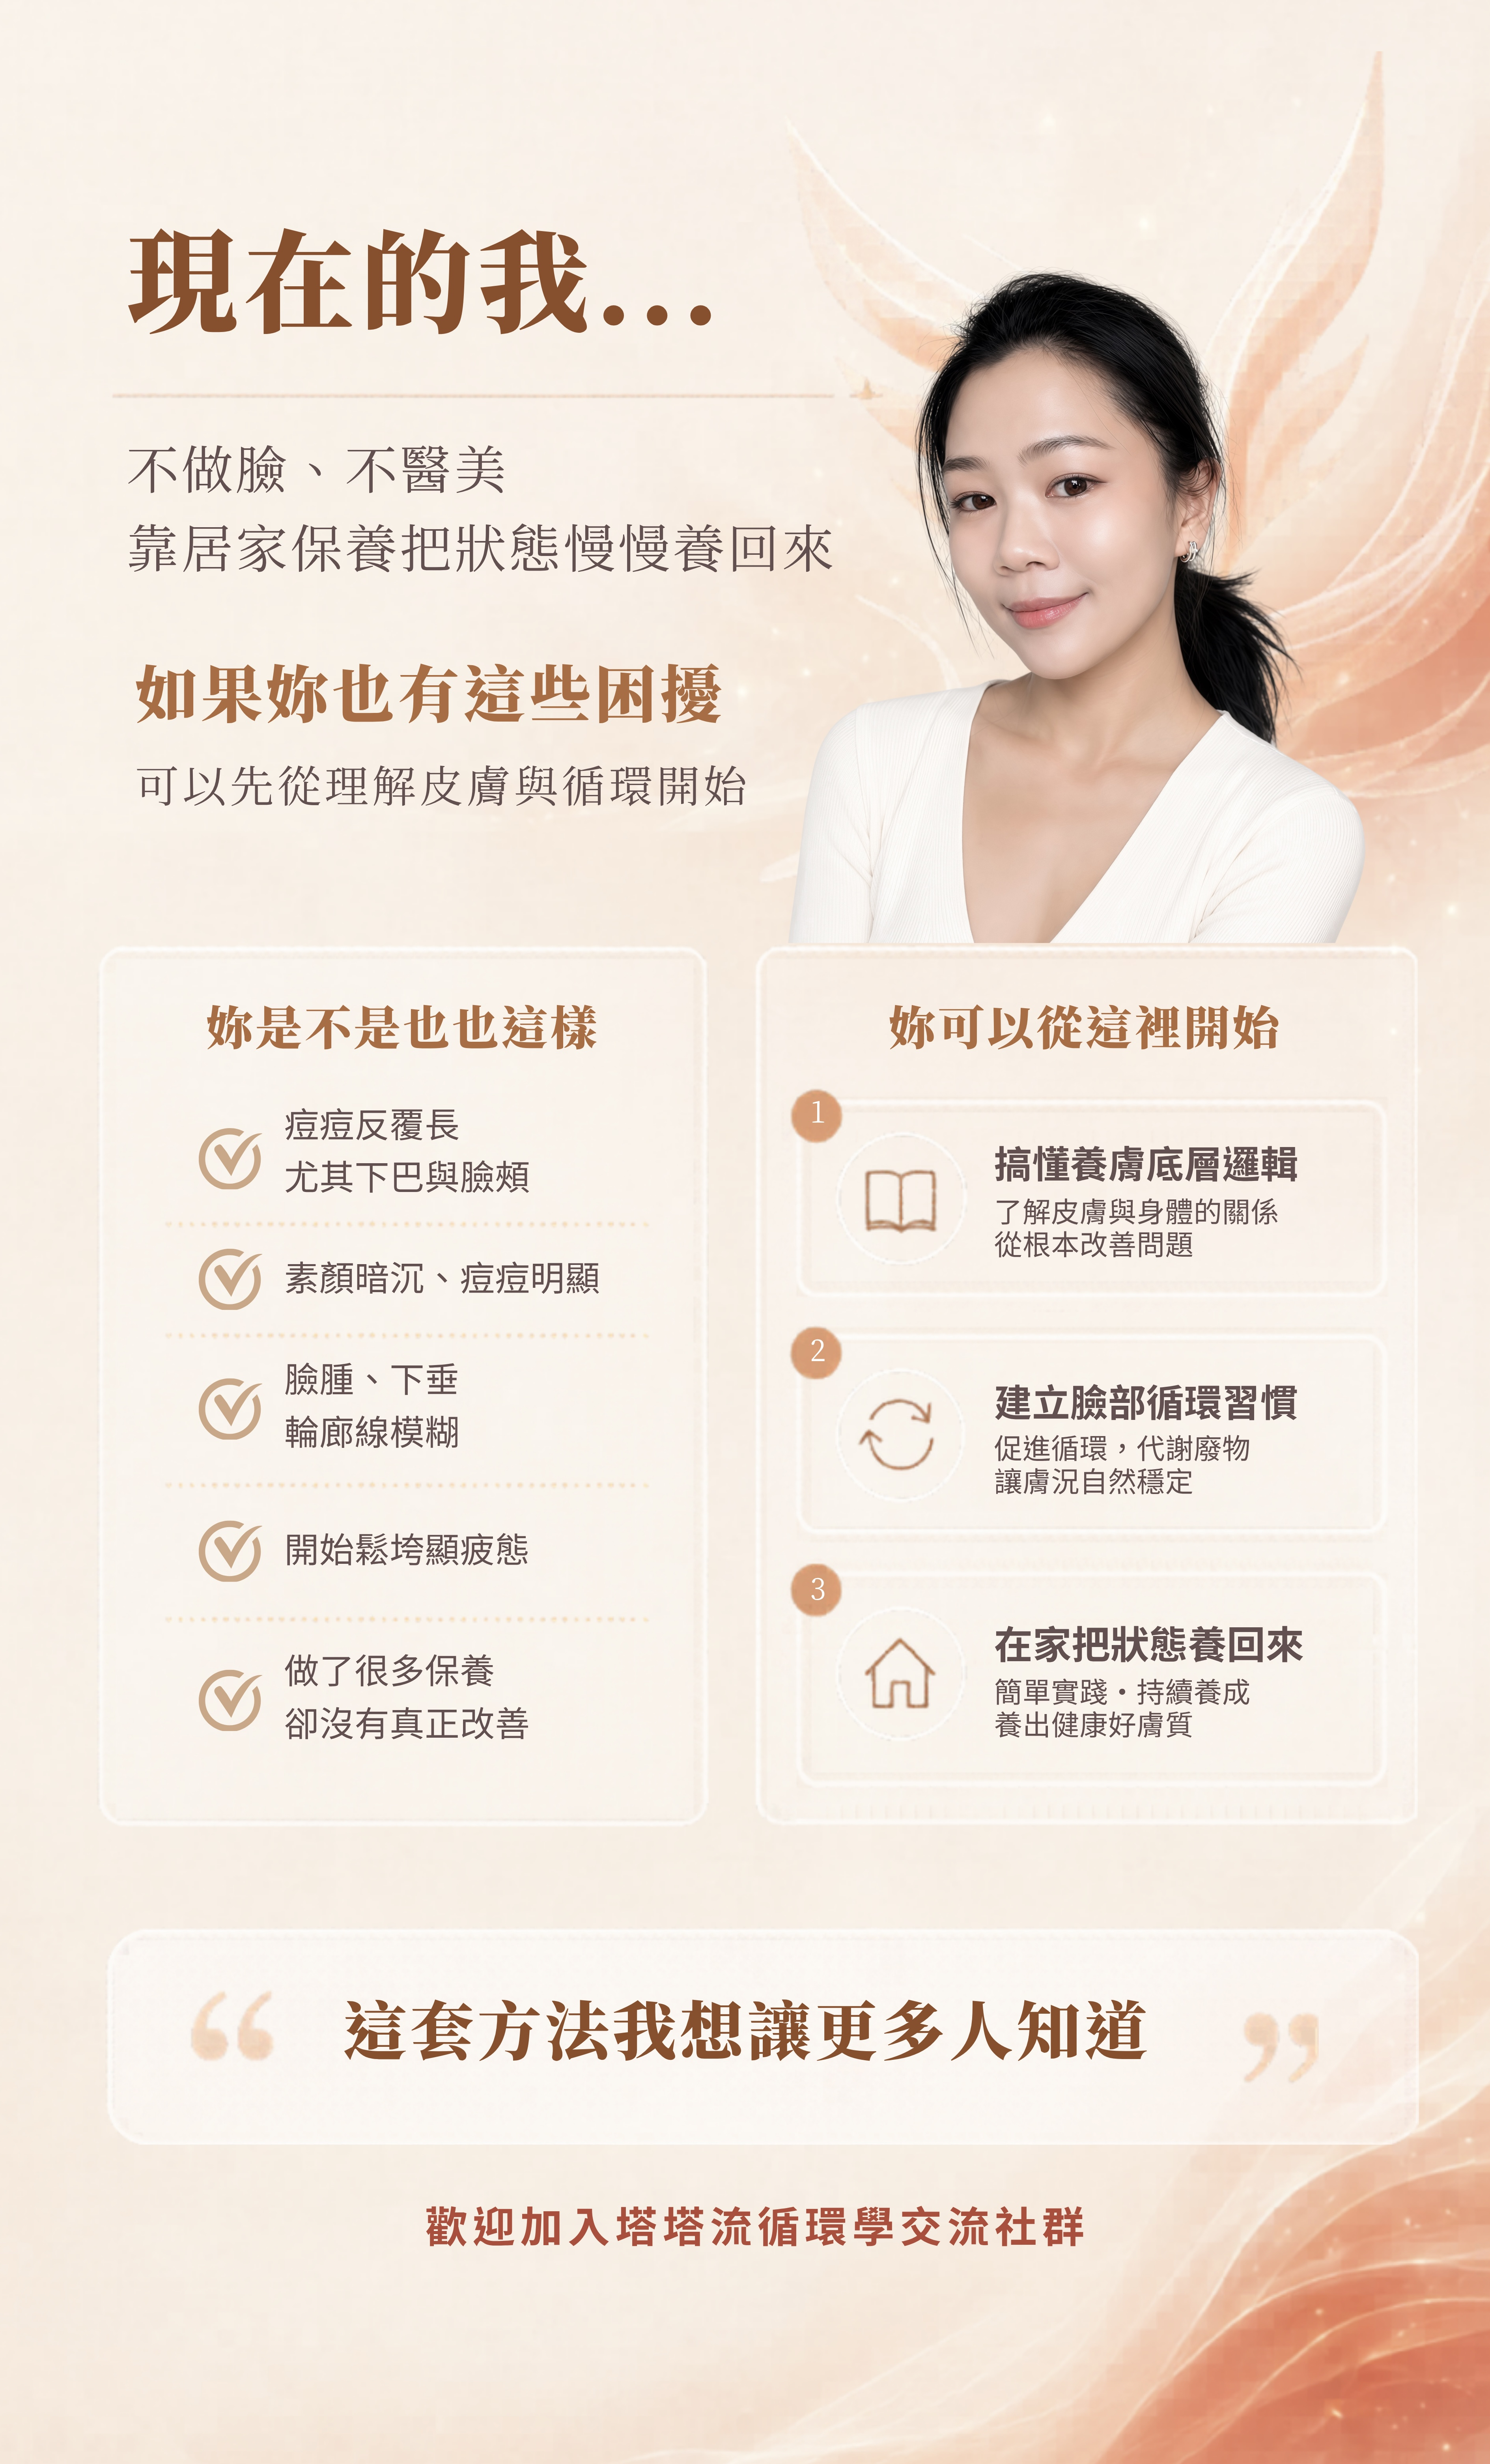
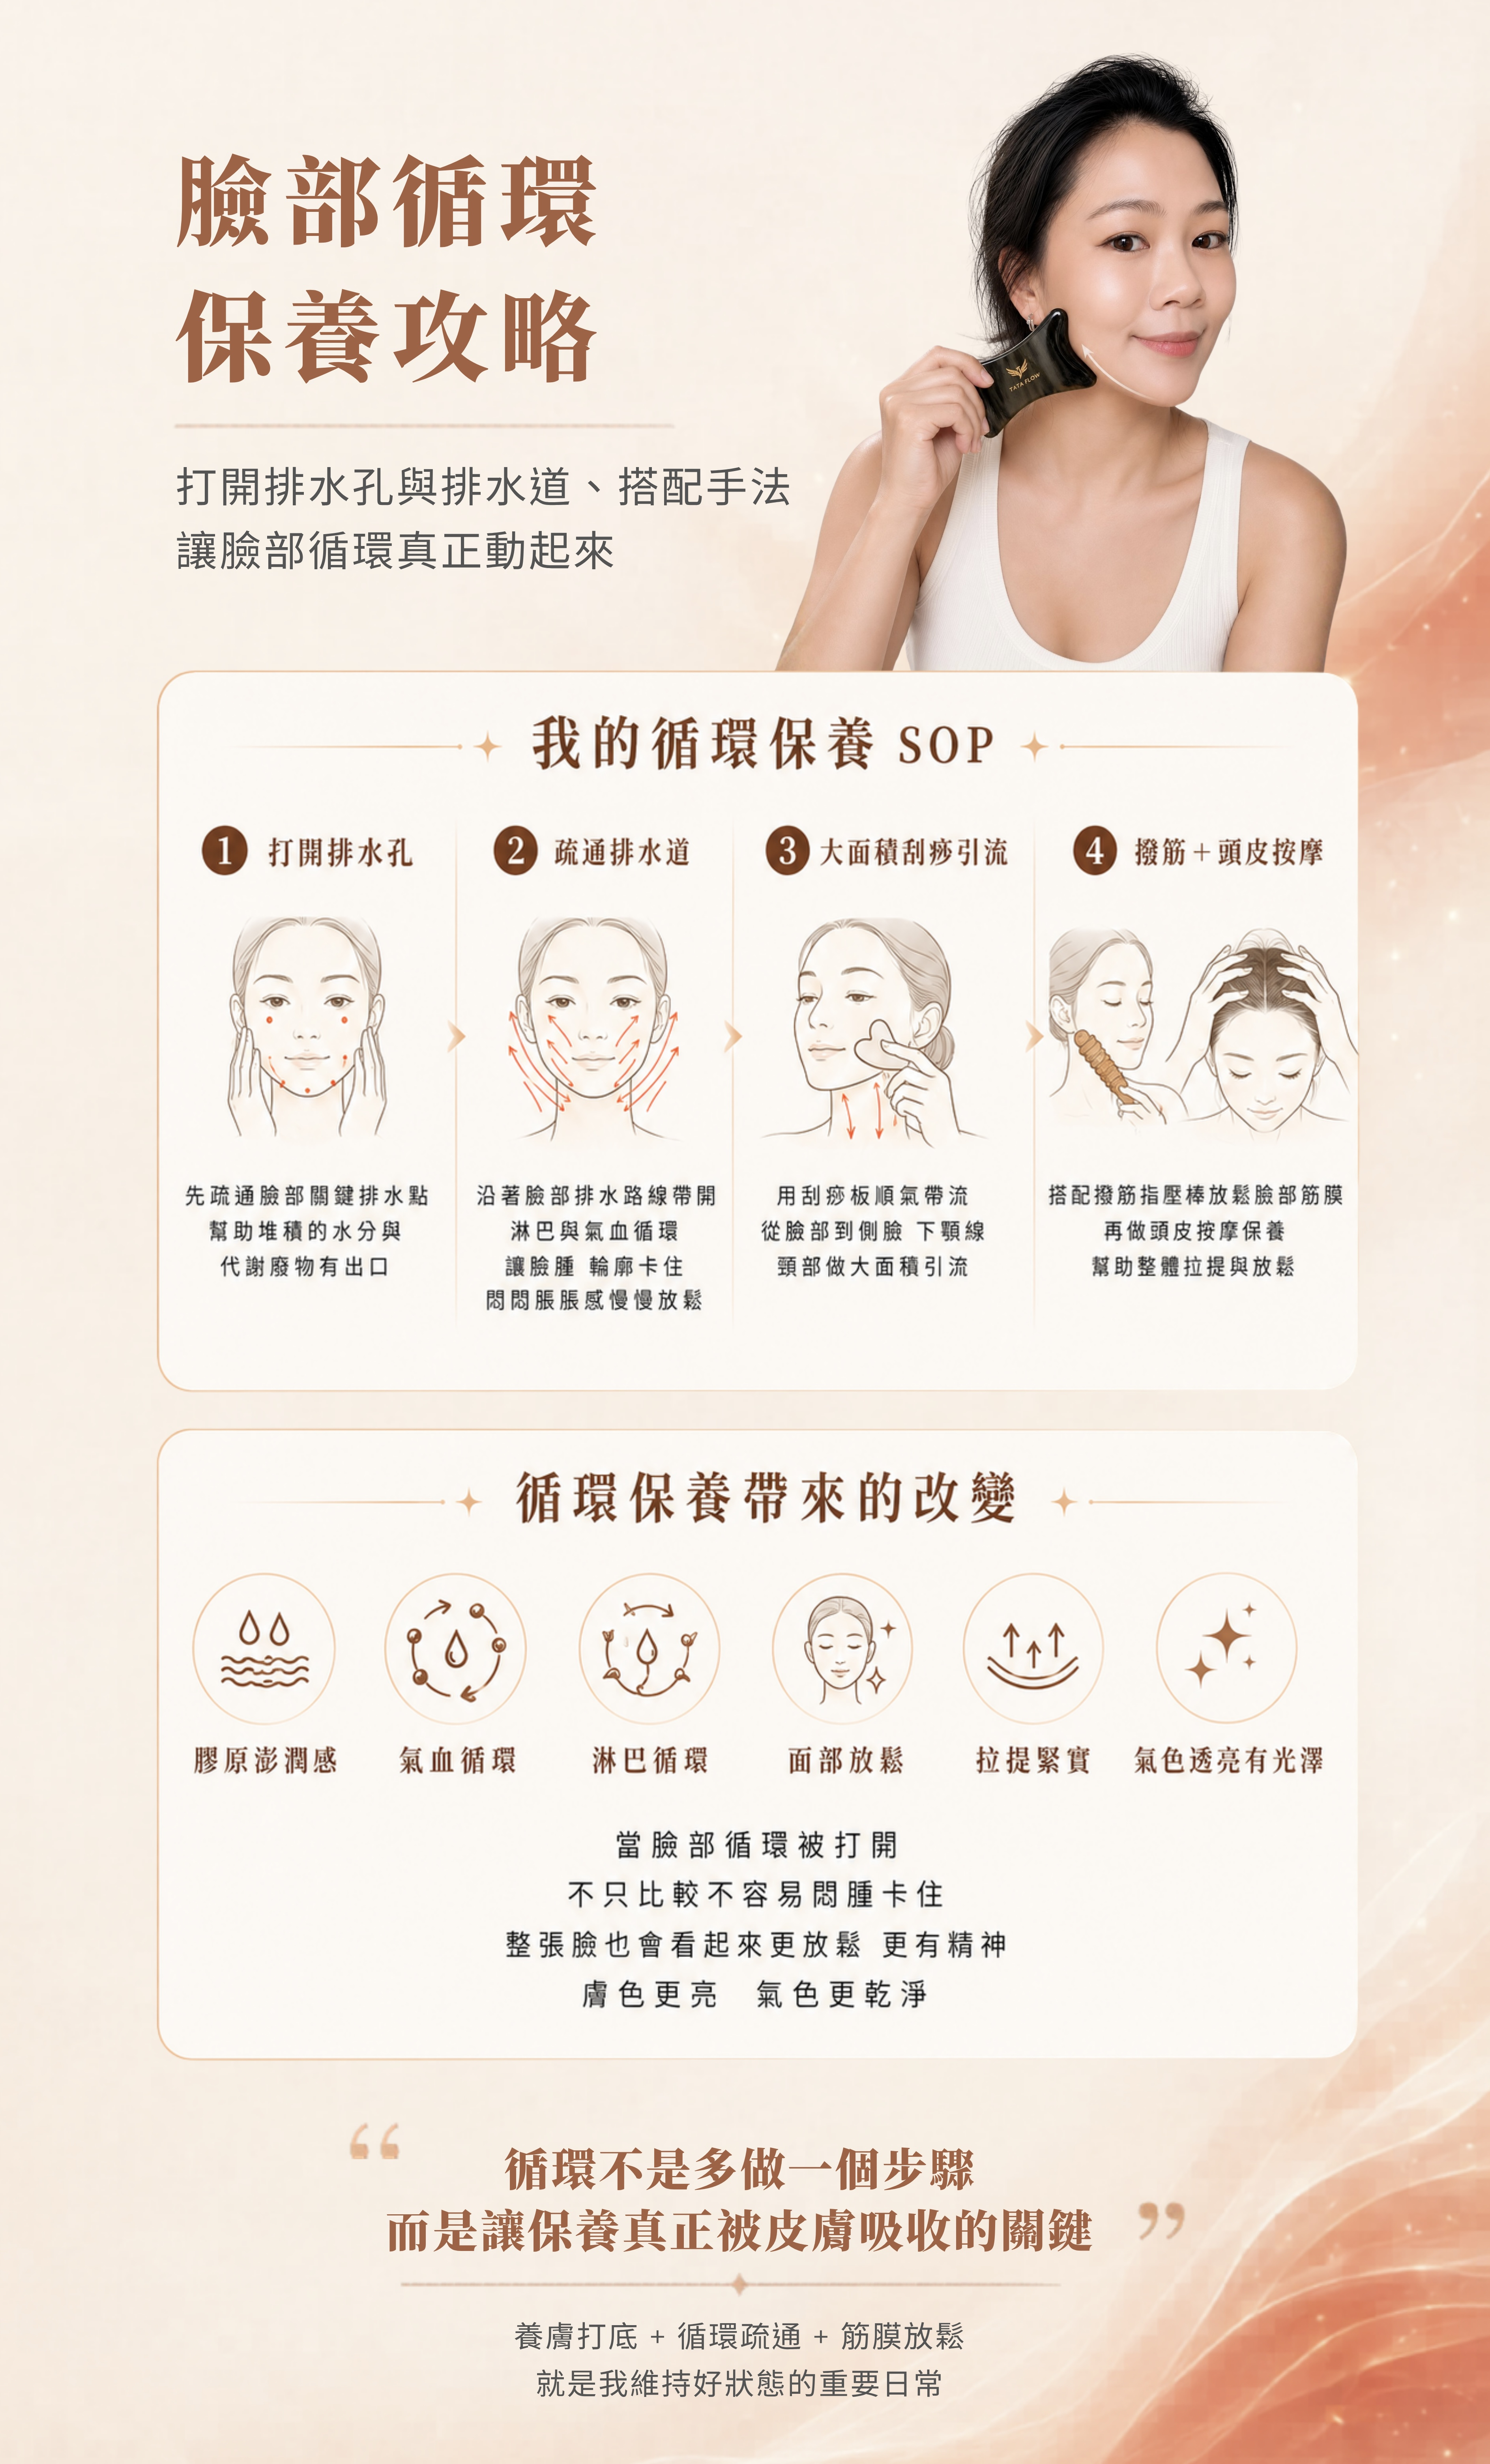
Add files via upload

diff --git a/index.html b/index.html
@@ -18,14 +18,12 @@ body {
   max-width: 600px;
   margin: 0 auto;
 }
-
 .story-img {
   width: 100%;
   display: block;
   opacity: 0;
   transform: translateY(16px);
   transition: opacity .65s ease, transform .65s ease;
-  /* 確保瀏覽器不做額外插值模糊 */
   image-rendering: -webkit-optimize-contrast;
 }
 .story-img.visible { opacity: 1; transform: translateY(0); }
@@ -53,7 +51,6 @@ body {
   pointer-events: none;
 }
 .cta-inner { position: relative; z-index: 1; max-width: 380px; margin: 0 auto; }
-
 .cta-card {
   background: rgba(255,255,255,.12);
   border: .5px solid rgba(255,255,255,.22);
@@ -121,7 +118,8 @@ body {
 <img class="story-img" src="story-p1.jpg" alt="40歲零醫美，從小痘痘肌靠居家循環保養養出好膚質" loading="eager">
 <img class="story-img" src="story-p2.jpg" alt="35歲後衰老問題與現在40歲的改變歷程" loading="lazy">
 <img class="story-img" src="story-p3.jpg" alt="讓皮膚改變的3大關鍵：養膚打底、循環疏通、筋膜放鬆" loading="lazy">
-<img class="story-img" src="story-p4.jpg" alt="現在的我——如果妳也有這些困擾可以從這裡開始" loading="lazy">
+<img class="story-img" src="story-p4.jpg" alt="臉部循環保養攻略：我的循環保養SOP" loading="lazy">
+<img class="story-img" src="story-p5.jpg" alt="現在的我——如果妳也有這些困擾可以從這裡開始" loading="lazy">
 
 <section class="cta-section">
   <div class="cta-inner">